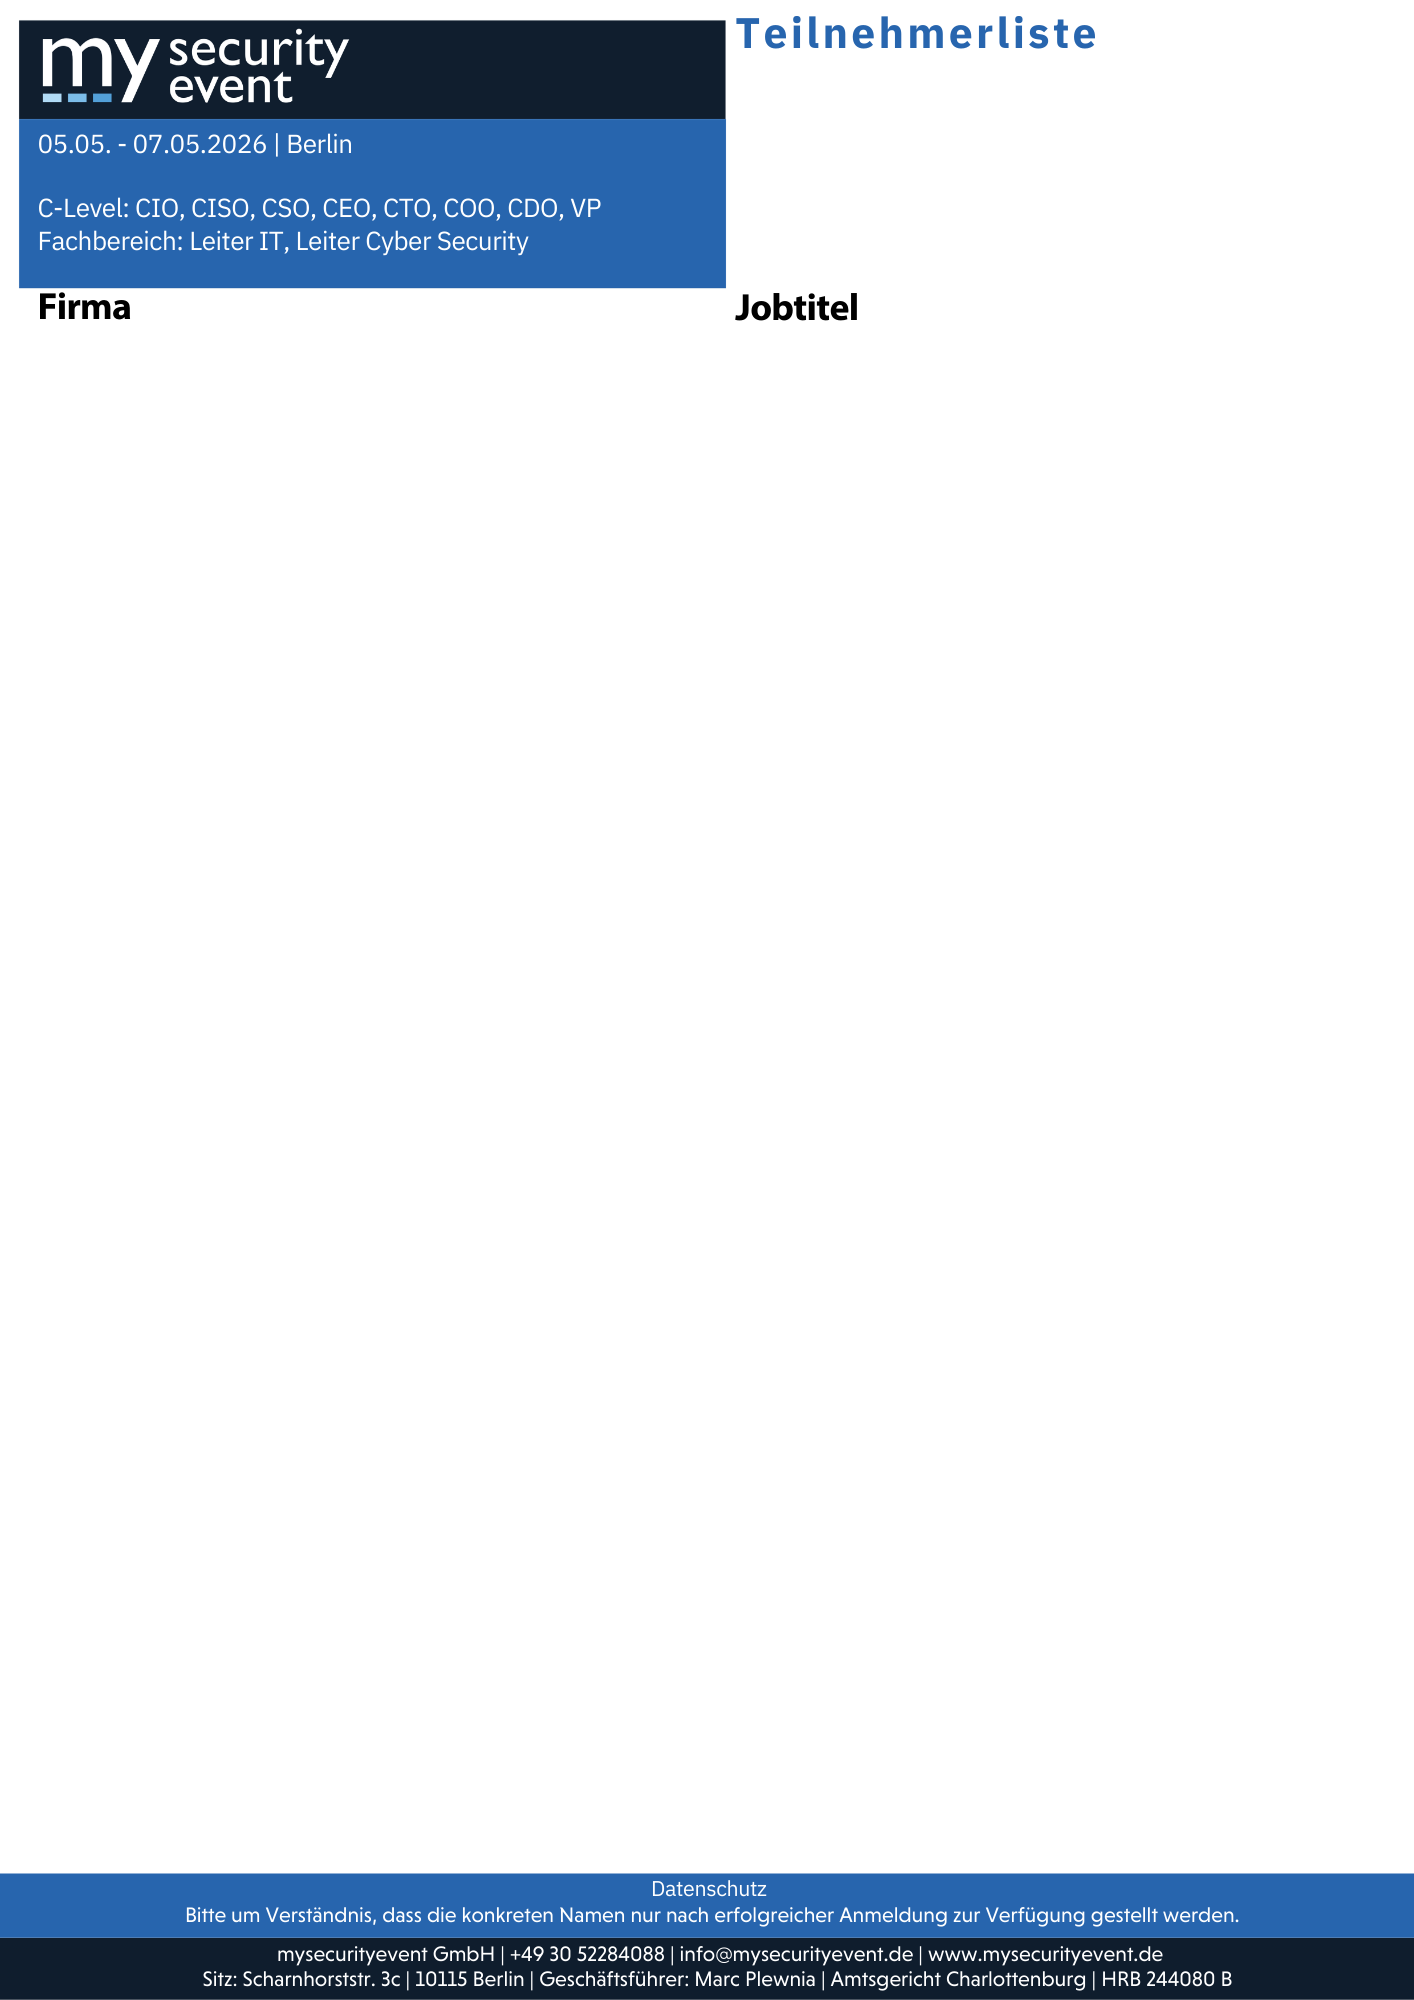
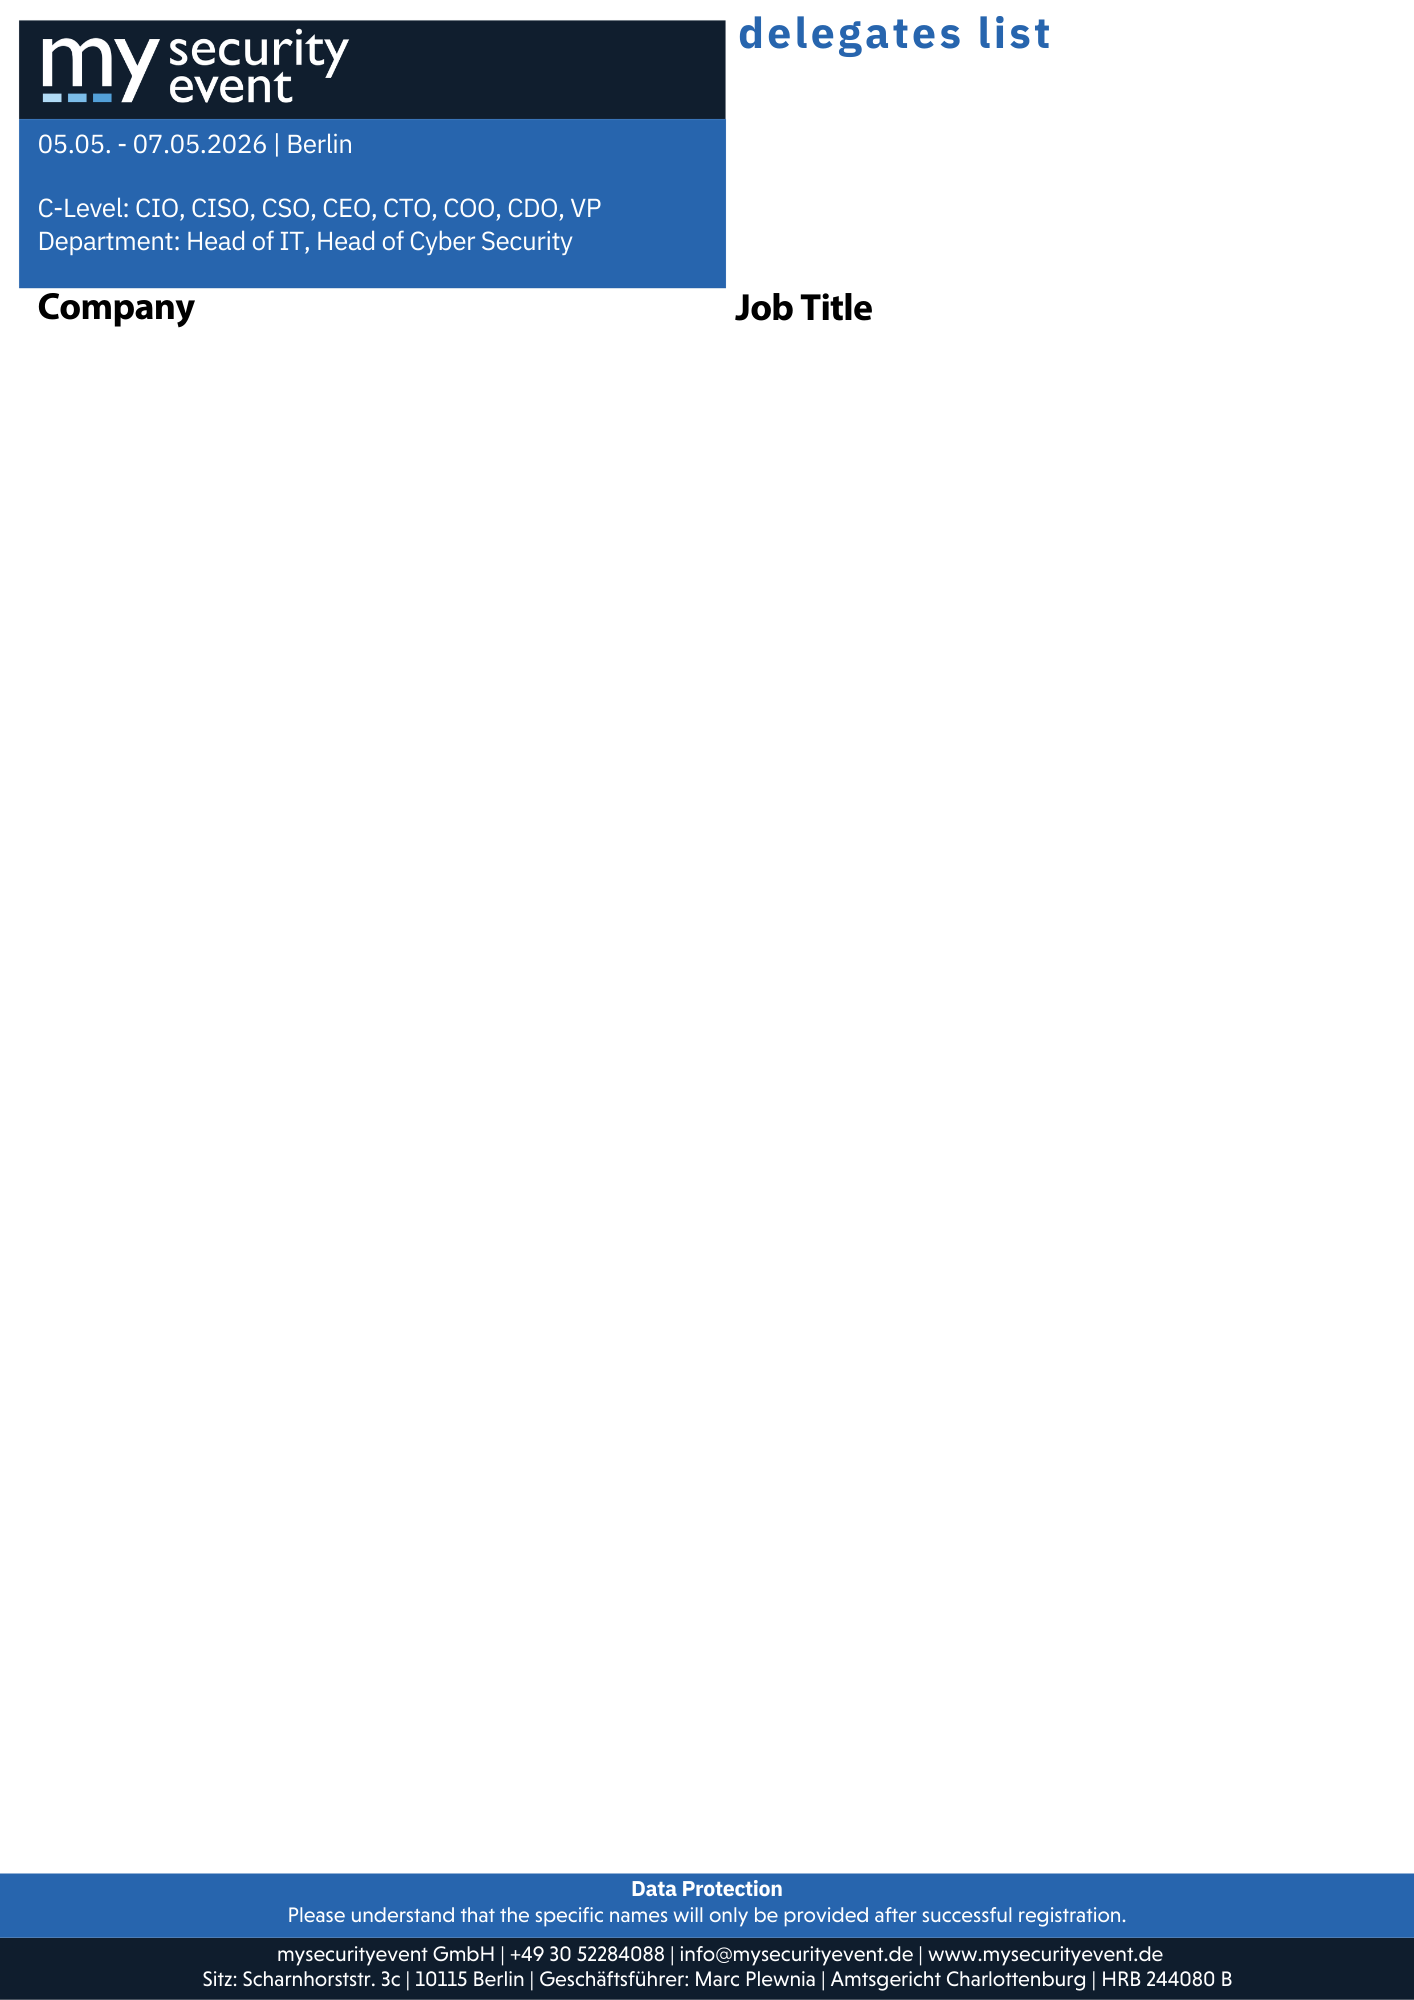
Teilnehmerlistengenerator Anpassungen

diff --git a/pages/Teilnehmerliste_Generator.py b/pages/Teilnehmerliste_Generator.py
@@ -1,8 +1,10 @@
+import base64
 import time
 from pathlib import Path
 
 import pandas as pd
 import streamlit as st
+import streamlit.components.v1 as components
 
 from teilnehmerliste_generator.hubspot_client import (
     get_contact_lists,
@@ -108,41 +110,103 @@ if not lists_map:
     st.error("Keine Listen aus der API erhalten. Prüfe Portal/Token/Scopes.")
     st.stop()
 
-selected_name = st.selectbox("Segment auswählen", list(lists_map.keys()))
+selected_name = st.selectbox(
+    "Segment auswählen",
+    list(lists_map.keys()),
+    index=None,
+    placeholder="Segment wählen...",
+)
+
+if selected_name is None:
+    st.stop()
+
 list_id = lists_map[selected_name]
 st.caption(f"List ID: {list_id}")
 
-if st.button("PDF erstellen", type="primary"):
-    with st.spinner("Mitglieder laden..."):
-        ids = get_list_members(list_id)
+# --- Session-State-Initialisierung ---
+for _key, _default in [
+    ("pdf_bytes", None),
+    ("pdf_ready", False),
+    ("pdf_row_count", 0),
+    ("last_list_id", None),
+]:
+    if _key not in st.session_state:
+        st.session_state[_key] = _default
 
-    if not ids:
-        st.warning("Diese Liste enthält 0 Kontakte.")
-        st.stop()
+# Zurücksetzen wenn neue Liste ausgewählt wird
+if st.session_state.last_list_id != list_id:
+    st.session_state.last_list_id = list_id
+    st.session_state.pdf_ready = False
+    st.session_state.pdf_bytes = None
 
-    with st.spinner("Kontakte laden (company, jobtitle)..."):
-        contacts = get_contacts_by_ids(ids, properties=["company", "jobtitle"])
+if not st.session_state.pdf_ready:
+    if st.button("PDF erstellen", type="primary"):
+        with st.spinner("Mitglieder laden..."):
+            ids = get_list_members(list_id)
 
-    df_raw = pd.DataFrame([c.get("properties", {}) for c in contacts])
+        if not ids:
+            st.warning("Diese Liste enthält 0 Kontakte.")
+            st.stop()
 
-    with st.spinner("Regeln anwenden..."):
-        df_out = build_teilnehmerliste(df_raw, lang=lang)
+        with st.spinner("Kontakte laden (company, jobtitle)..."):
+            contacts = get_contacts_by_ids(ids, properties=["company", "jobtitle"])
 
-    with st.spinner("PDF rendern..."):
-        pdf_bytes = generate_pdf_bytes(
-            df=df_out,
-            template_p1=TEMPLATE_P1,
-            template_p2=TEMPLATE_P2,
-            font_dir=FONT_DIR,
-            lang=lang,
+        df_raw = pd.DataFrame([c.get("properties", {}) for c in contacts])
+
+        with st.spinner("Regeln anwenden..."):
+            df_out = build_teilnehmerliste(df_raw, lang=lang)
+
+        with st.spinner("PDF rendern..."):
+            pdf_bytes = generate_pdf_bytes(
+                df=df_out,
+                template_p1=TEMPLATE_P1,
+                template_p2=TEMPLATE_P2,
+                font_dir=FONT_DIR,
+                lang=lang,
+            )
+
+        st.session_state.pdf_bytes = pdf_bytes
+        st.session_state.pdf_ready = True
+        st.session_state.pdf_row_count = len(df_out)
+
+        st.success(f"Fertig: {len(df_out)} Zeilen (max. 2 pro Firma).")
+
+        # Automatischer Download via JS (Blob URL über window.parent, da data:-URLs aus iframes geblockt werden)
+        b64 = base64.b64encode(pdf_bytes).decode()
+        components.html(
+            f"""<script>
+              (function() {{
+                var b64 = '{b64}';
+                var byteChars = atob(b64);
+                var byteArray = new Uint8Array(byteChars.length);
+                for (var i = 0; i < byteChars.length; i++) {{
+                  byteArray[i] = byteChars.charCodeAt(i);
+                }}
+                var blob = new Blob([byteArray], {{type: 'application/pdf'}});
+                var url = URL.createObjectURL(blob);
+                var a = window.parent.document.createElement('a');
+                a.href = url;
+                a.download = 'Teilnehmerliste.pdf';
+                window.parent.document.body.appendChild(a);
+                a.click();
+                window.parent.document.body.removeChild(a);
+                setTimeout(function() {{ URL.revokeObjectURL(url); }}, 100);
+              }})();
+            </script>""",
+            height=0,
         )
 
-    st.success(f"Fertig: {len(df_out)} Zeilen (max. 2 pro Firma).")
-    st.dataframe(df_out, use_container_width=True)
-
+        st.download_button(
+            "Nochmal herunterladen",
+            data=pdf_bytes,
+            file_name="Teilnehmerliste.pdf",
+            mime="application/pdf",
+        )
+else:
+    st.success(f"Fertig: {st.session_state.pdf_row_count} Zeilen (max. 2 pro Firma).")
     st.download_button(
-        "Teilnehmerliste.pdf herunterladen",
-        data=pdf_bytes,
+        "Nochmal herunterladen",
+        data=st.session_state.pdf_bytes,
         file_name="Teilnehmerliste.pdf",
         mime="application/pdf",
     )

diff --git a/badgegen/render_pdf.py b/badgegen/render_pdf.py
@@ -15,16 +15,22 @@ from reportlab.graphics import renderPDF
 # A6 hochkant
 A6_W, A6_H = 105 * mm, 148 * mm
 
-# Boxen in mm (aus Badge-Beispiel abgeleitet)
+# A6 = 105 x 148 mm.  Header/Logo belegt ca. y > 118 mm.
+# Alle vier Textfelder eng gruppiert unterhalb des Headers.
+# Reihenfolge von oben nach unten: Vorname → Nachname → Firma → Jobtitel
+# (x0, x1, y_bottom, y_top) in mm – ReportLab: y=0 ist unten
 TEXT_BOXES_MM = {
-    "firstname": (10.0, 95.0, 118.46, 126.86),
-    "lastname":  (10.0, 95.0, 108.09, 114.63),
-    "jobtitle":  (10.0, 95.0,  98.09, 104.68),
-    "company":   (10.0, 95.0,  63.89,  71.58),
-    "record_id": (10.0, 95.0,   8.8,   12.2),
+    "firstname": (10.0, 95.0, 100.0, 112.0),
+    "lastname":  (10.0, 95.0,  89.0,  99.0),
+    "company":   (10.0, 95.0,  79.0,  88.0),
+    "jobtitle":  (10.0, 95.0,  71.0,  78.0),
+    "record_id": (10.0, 95.0,   2.0,   6.0),
 }
 
-# Fonts
+# QR-Code: 30 mm Quadrat, horizontal zentriert, unterer Bereich
+QR_BOX_MM = (37.5, 67.5, 10.0, 40.0)
+
+# Fonts – Beispielbadge nutzt eine serifenlose Schrift (ähnlich Arial)
 FONT_NAME_FIRST = "Helvetica-Bold"
 FONT_NAME_LAST = "Helvetica-Bold"
 FONT_NAME_COMPANY = "Helvetica-Bold"
@@ -33,8 +39,8 @@ FONT_NAME_ID = "Helvetica"
 
 FONT_SIZE_FIRST_MAX = 52
 FONT_SIZE_LAST_MAX = 48
-FONT_SIZE_COMPANY_MAX = 52
-FONT_SIZE_JOB_MAX = 34
+FONT_SIZE_COMPANY_MAX = 40
+FONT_SIZE_JOB_MAX = 30
 FONT_SIZE_ID = 9
 
 MIN_FONT_SIZE = 12
@@ -183,17 +189,17 @@ def render_badges_pdf_bytes(
         lines, size, lh = _fit_text_in_box(c, lastname, FONT_NAME_LAST, FONT_SIZE_LAST_MAX, MIN_FONT_SIZE, x1-x0, y1-y0, 2)
         _draw_centered_lines_in_box(c, lines, FONT_NAME_LAST, size, x0, x1, y0, y1, lh)
 
-        # Jobtitel
-        x0, x1, y0, y1 = box_job
-        lines, size, lh = _fit_text_in_box(c, jobtitle, FONT_NAME_JOB, FONT_SIZE_JOB_MAX, MIN_FONT_SIZE, x1-x0, y1-y0, 2)
-        _draw_centered_lines_in_box(c, lines, FONT_NAME_JOB, size, x0, x1, y0, y1, lh)
-
-        # Firma
+        # Firma (3. von oben)
         x0, x1, y0, y1 = box_company
         lines, size, lh = _fit_text_in_box(c, company, FONT_NAME_COMPANY, FONT_SIZE_COMPANY_MAX, MIN_FONT_SIZE, x1-x0, y1-y0, 2)
         _draw_centered_lines_in_box(c, lines, FONT_NAME_COMPANY, size, x0, x1, y0, y1, lh)
 
-        # Datensatz-ID
+        # Jobtitel (4. von oben)
+        x0, x1, y0, y1 = box_job
+        lines, size, lh = _fit_text_in_box(c, jobtitle, FONT_NAME_JOB, FONT_SIZE_JOB_MAX, MIN_FONT_SIZE, x1-x0, y1-y0, 2)
+        _draw_centered_lines_in_box(c, lines, FONT_NAME_JOB, size, x0, x1, y0, y1, lh)
+
+        # Datensatz-ID (Text)
         if print_record_id and record_id:
             x0, x1, y0, y1 = box_id
             lines, size, lh = _fit_text_in_box(
@@ -206,21 +212,41 @@ def render_badges_pdf_bytes(
                 y1 - y0,
                 1,
             )
-            _draw_centered_lines_in_box(c, lines, FONT_NAME_ID, size, x0, x1, y0, y1, lh)
+            _draw_centered_lines_in_box(
+                c, lines, FONT_NAME_ID, size, x0, x1, y0, y1, lh
+            )
 
-        # QR-Code aus Datensatz-ID (unten rechts)
-        if record_id:
-            qr_widget = qr.QrCodeWidget(record_id)
+        # QR-Code (kodiert die Datensatz-ID, falls vorhanden, sonst Name+Firma)
+        qr_data = record_id or " ".join(
+            part
+            for part in [firstname, lastname, company]
+            if part
+        )
+        if qr_data:
+            qx0, qx1, qy0, qy1 = _mm_box_to_points(QR_BOX_MM)
+            qr_box_w = qx1 - qx0
+            qr_box_h = qy1 - qy0
+            qr_size = min(qr_box_w, qr_box_h)
+
+            qr_widget = qr.QrCodeWidget(qr_data)
             bounds = qr_widget.getBounds()
             w = bounds[2] - bounds[0]
             h = bounds[3] - bounds[1]
-            qr_size = 28 * mm
-            drawing = Drawing(qr_size, qr_size, transform=[qr_size / w, 0, 0, qr_size / h, 0, 0])
-            drawing.add(qr_widget)
 
-            qr_x = A6_W - qr_size - 10 * mm
-            qr_y = 10 * mm
-            renderPDF.draw(drawing, c, qr_x, qr_y)
+            # Skalierung über den Drawing-Transform, nicht über das Widget
+            if w > 0 and h > 0:
+                scale = qr_size / max(w, h)
+                drawing = Drawing(
+                    qr_size,
+                    qr_size,
+                    transform=[scale, 0, 0, scale, 0, 0],
+                )
+            else:
+                drawing = Drawing(qr_size, qr_size)
+
+            drawing.add(qr_widget)
+            # leicht vom Rand einrücken
+            renderPDF.draw(drawing, c, qx0, qy0)
 
         c.showPage()
 
